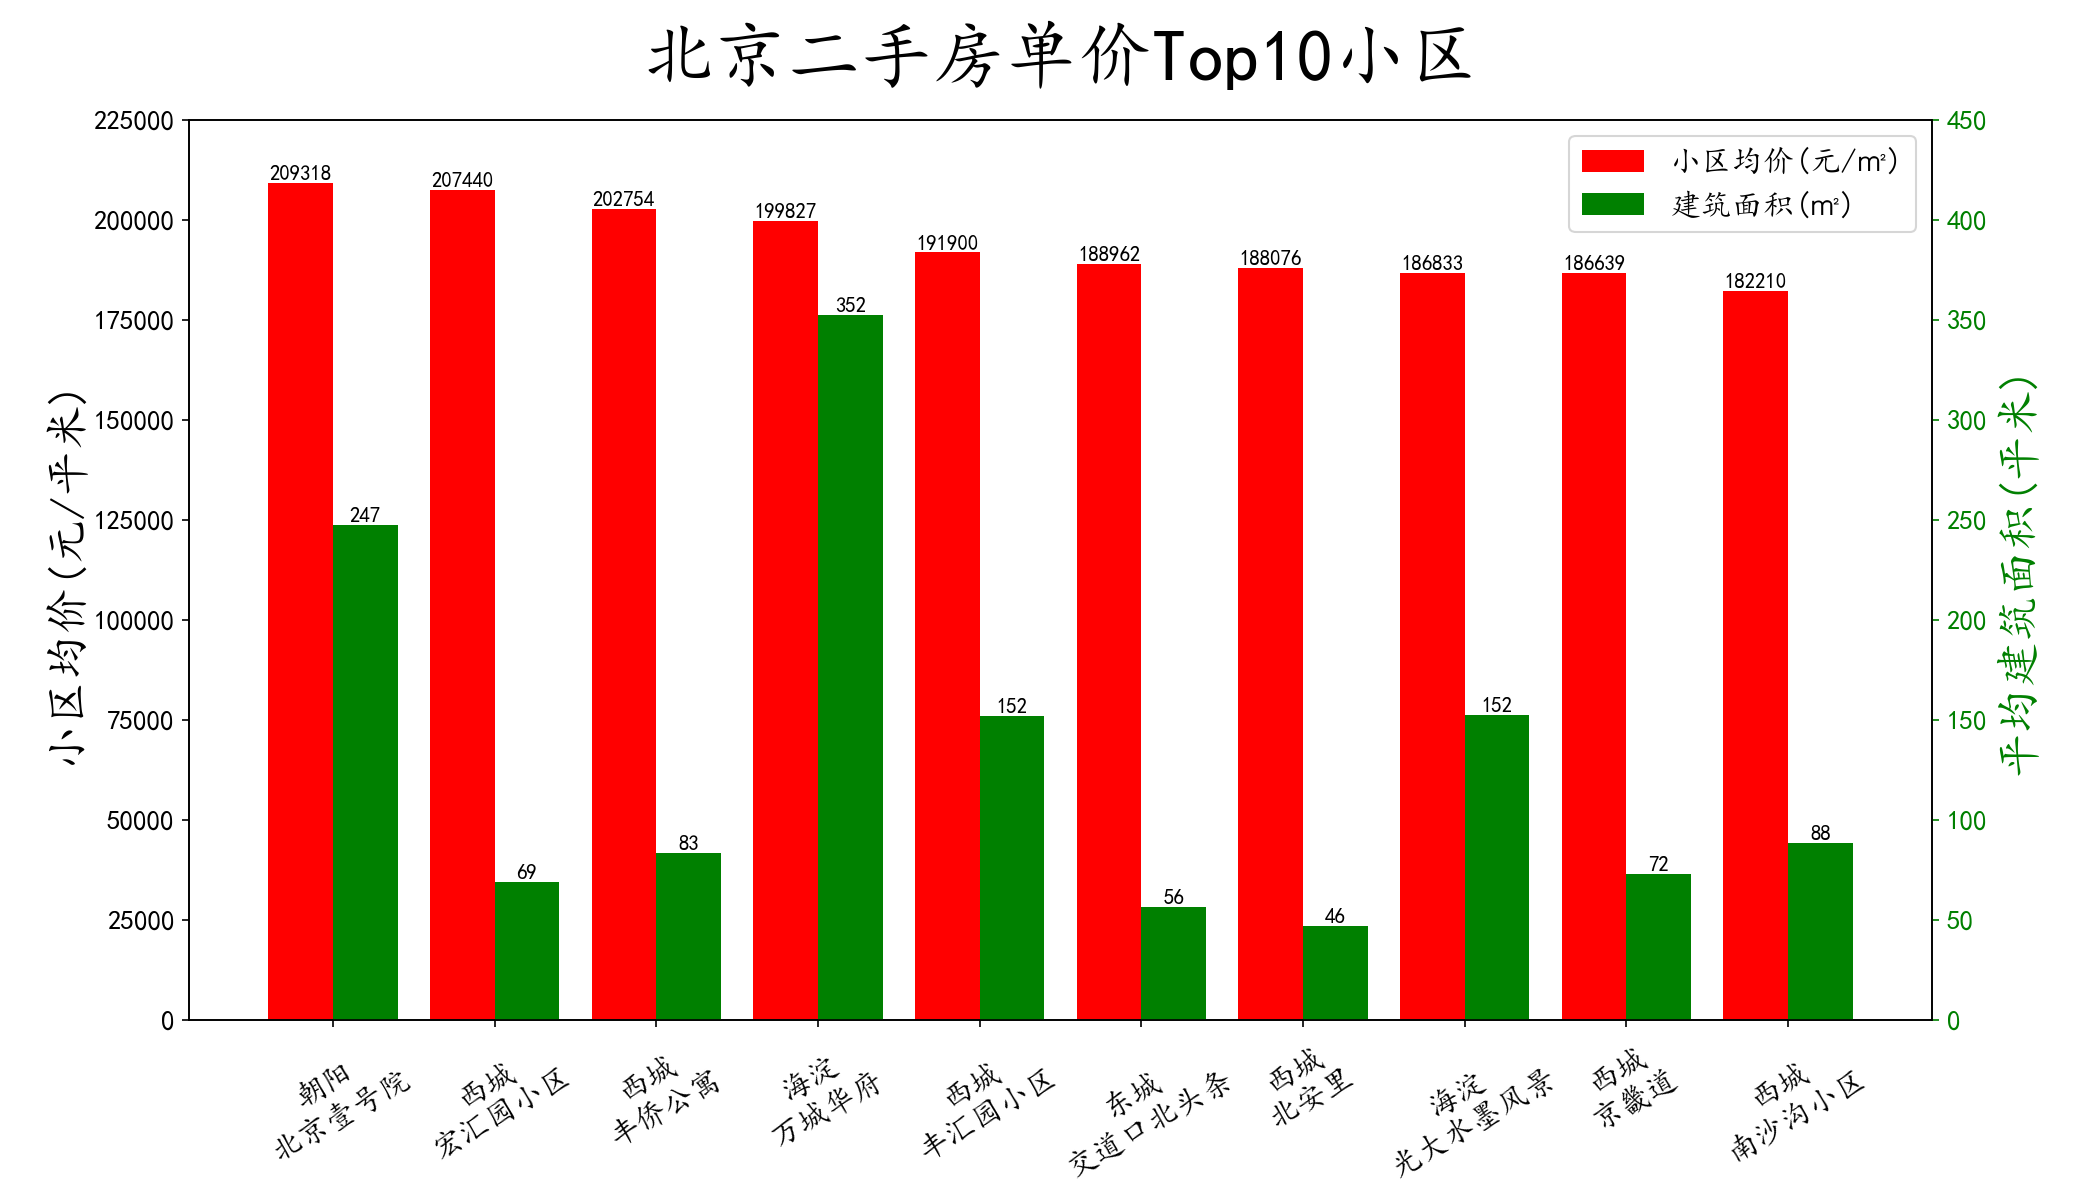
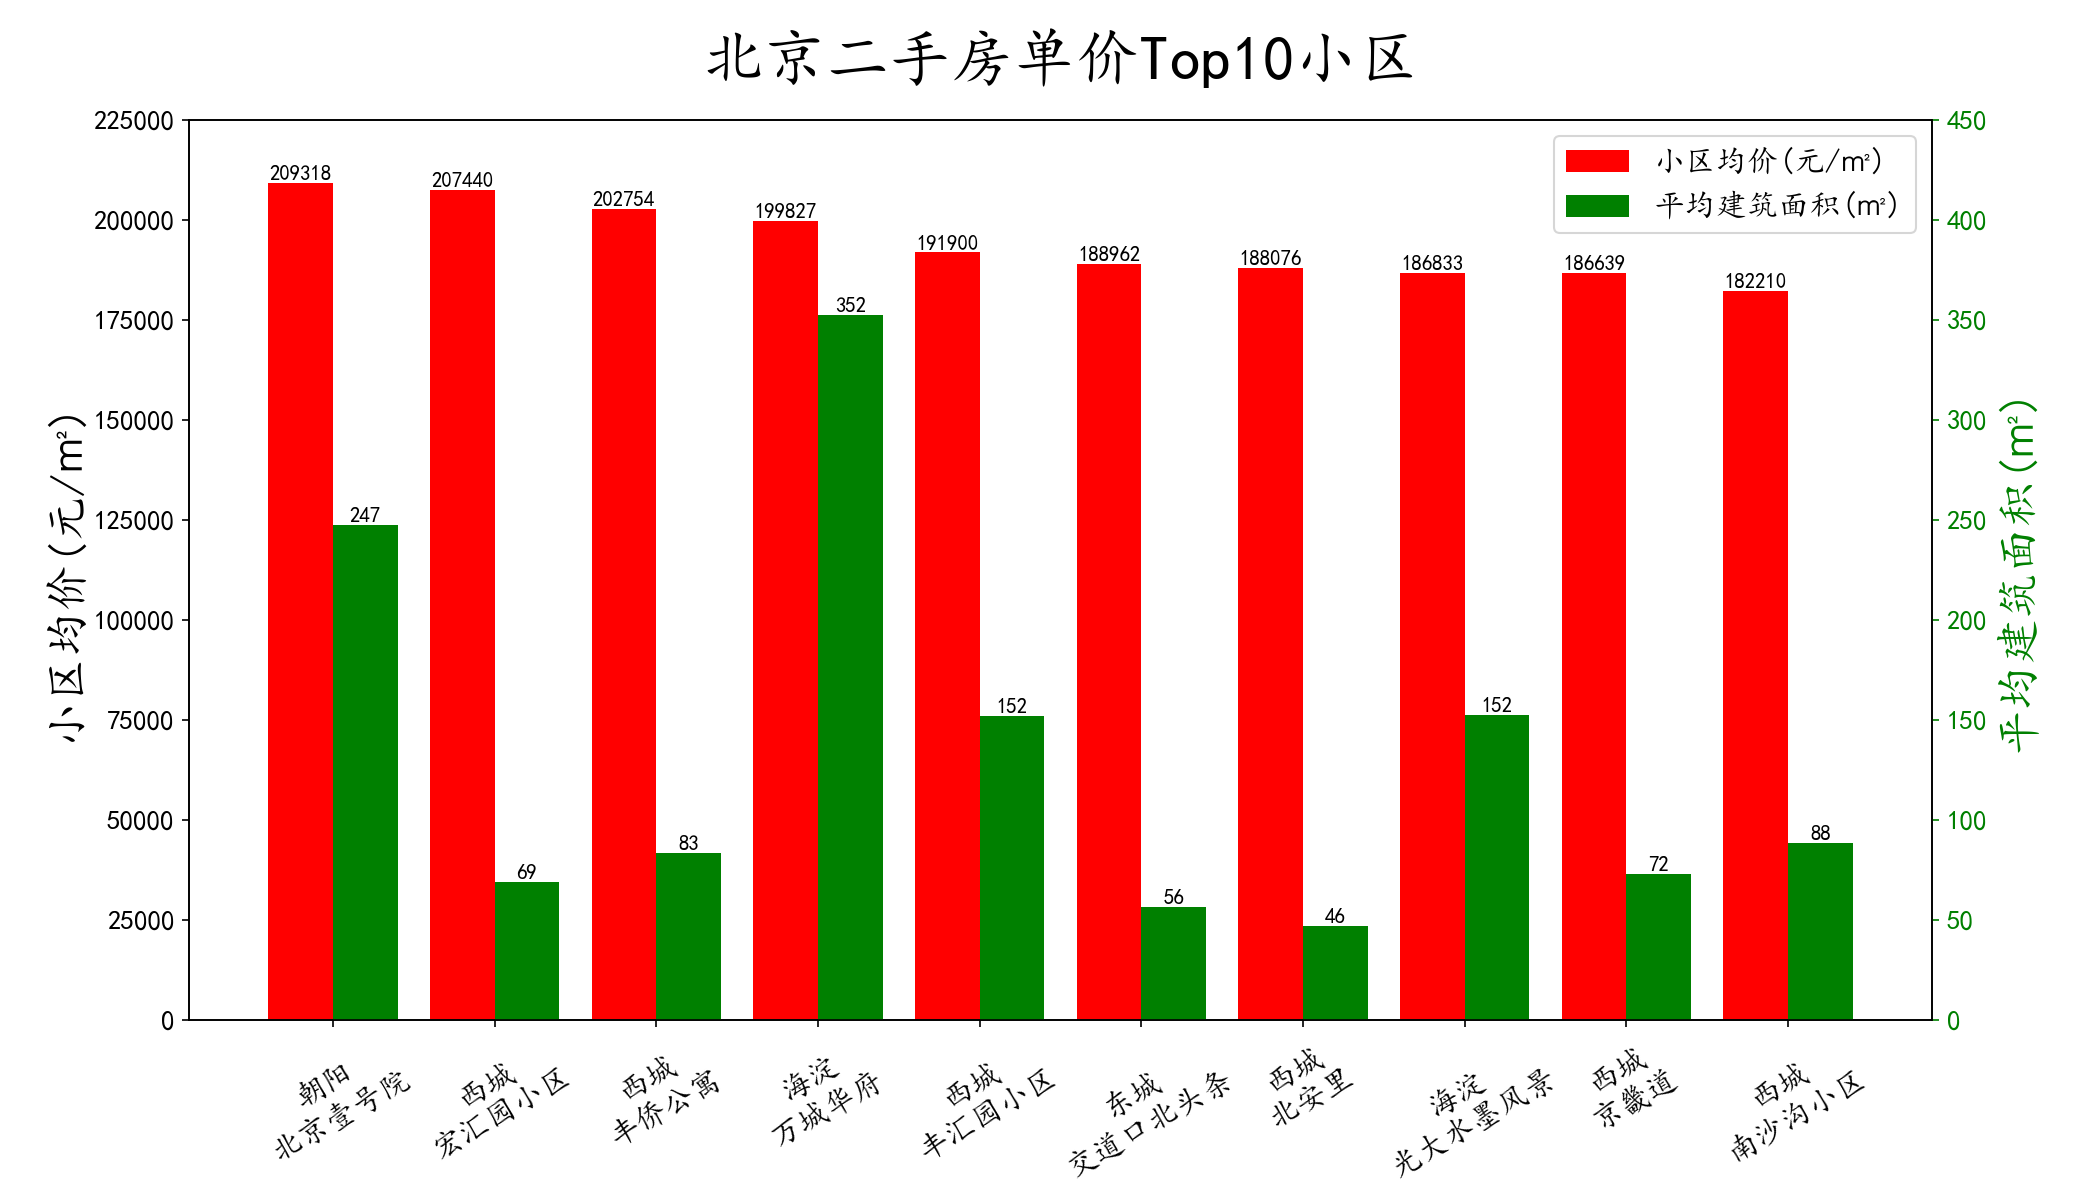
finish part 3.1

diff --git a/analysis/ershoufang.py b/analysis/ershoufang.py
@@ -1,27 +1,21 @@
 # 每个图包括: 1)数据分组、数据运算和聚合; 2)绘图（bar/parallel_bar/box/pie/scatter）
 import cv2
 import jieba
+import matplotlib.pyplot as plt
 import numpy as np
 import pandas as pd
-import matplotlib.pyplot as plt
 from wordcloud import WordCloud, STOPWORDS
+
+from analysis.config import text_fields, cut_fields, colors, district_order, district_order_, \
+    mask_image, wordcloud_image, price_by_district_distrib_image, unitprice_topk_communities_image, \
+    stats_by_district_image, price_area_distrib_image, basic_info_distrib_image
 from general_config import proc_file, city_abbr, na_values
-from analysis.config import text_fields, cut_fields, mask_image, wordcloud_image, price_by_district_image, \
-    price_by_district_box_image, unitprice_topk_communities_image
-import random
 
 task = "ershoufang"
 max_total_houses = 100000
 # 正常显示中文标签、负号
 plt.rcParams["font.sans-serif"] = ['KaiTi', 'SimHei', 'FangSong']  # 汉字字体,优先使用楷体，如果找不到楷体，则使用黑体
 plt.rcParams["axes.unicode_minus"] = False
-colorArr = ['1', '2', '3', '4', '5', '6', '7', '8', '9', 'A', 'B', 'C', 'D', 'E', 'F']
-rotations = [30, 45, 60]
-bar_width = 0.4
-
-# Return random color value for scatter plot
-def rand_color():
-    return "#" + "".join([random.choice(colorArr) for i in range(6)])
 
 
 # 北京二手房词云 (wordcloud)
@@ -46,149 +40,143 @@ def paint_wordcloud(df):
         )
         # 产生词云
         wordcloud = wordcloud.generate(ershoufang_text)
-        wordcloud.to_file(wordcloud_image.format("wordcloud", bg_color))
-        # plt.figure("二手房词云", figsize=(30, 20), dpi=120)  # 指定所绘图名称
+        wordcloud.to_file(wordcloud_image.format(bg_color))
+        # plt.figure("二手房词云", figsize=(15, 15), dpi=150)  # 指定所绘图名称
         # plt.imshow(wordcloud)  # 以图片的形式显示词云
         # plt.axis("off")  # 关闭图像坐标系
         # plt.show()
 
 
-# 房源基本信息分布 (pie, subplots=2x3)
-def paint_basic_info_distrib(df, k=8):
-    # 房屋用途分布
-    count_fwyt = df["房屋用途"].value_counts()[:k]
-    count_other_fwyt = pd.Series({"其他": df["房屋用途"].value_counts()[k:].count()})
-    count_fwyt = count_fwyt.append(count_other_fwyt)
-    count_fwyt.index.name = ""
-    count_fwyt.name = ""
-    fig = plt.figure(figsize=(20, 20), dpi=150)
-    ax = fig.add_subplot(231)
-    ax.set_title("房屋用途分布", fontsize=18)
-    count_fwyt.plot(kind="pie", cmap=plt.cm.rainbow, autopct="%3.1f%%", fontsize=12)
-    # 房屋户型分布
-    count_fwhx = df["房屋户型"].value_counts()[:k]
-    count_other_fwhx = pd.Series({"其他": df["房屋户型"].value_counts()[k:].count()})
-    count_fwhx = count_fwhx.append(count_other_fwhx)
-    count_fwhx.index.name = ""
-    count_fwhx.name = ""
-    ax = fig.add_subplot(232)
-    ax.set_title("房屋户型分布", fontsize=18)
-    count_fwhx.plot(kind="pie", cmap=plt.cm.rainbow, autopct="%3.1f%%", fontsize=12)
-    # 装修情况分布
-    count_zxqk = df["装修情况"].value_counts()
-    count_zxqk.name = ""
-    ax = fig.add_subplot(233)
-    ax.set_title("装修情况分布", fontsize=18)
-    count_zxqk.plot(kind="pie", cmap=plt.cm.rainbow, autopct="%3.1f%%", fontsize=12)
-    # 建筑类型分布
-    count_jzlx = df["建筑类型"].value_counts()
-    count_jzlx.name = ""
-    ax = fig.add_subplot(234)
-    ax.set_title("建筑类型分布", fontsize=18)
-    count_jzlx.plot(kind="pie", cmap=plt.cm.rainbow, autopct="%3.1f%%", fontsize=12)
-    # 房屋朝向分布
-    count_fwcx = df["房屋朝向"].value_counts()[:k]
-    count_other_fwcx = pd.Series({"其他": df["房屋朝向"].value_counts()[k:].count()})
-    count_fwcx = count_fwcx.append(count_other_fwcx)
-    ax = fig.add_subplot(235)
-    ax.set_title("房源朝向分布", fontsize=18)
-    count_fwcx.plot(kind="pie", cmap=plt.cm.rainbow, autopct="%3.1f%%", fontsize=12)
-    # 建筑面积分布(区间)
-    area_level = [0, 50, 100, 150, 200, 250, 300, 500, 100000]
-    label_level = ["小于50", "50-100", "100-150", "150-200", "200-300", "300-500", "大于500"]
-    jzmj_cut = pd.cut(df["建筑面积(㎡)"], area_level, labels=label_level)
-    jzmj_result = jzmj_cut.value_counts()
-    ax = fig.add_subplot(236)
-    ax.set_ylabel("建筑面积(㎡)", fontsize=14)
-    ax.set_title("建筑面积分布区间", fontsize=18)
-    jzmj_result.plot(kind="pie", cmap=plt.cm.rainbow, autopct="%3.1f%%", fontsize=12)
+# 房源基本信息分布 (pie, subplots=3x3)
+def paint_basic_info_distrib(df):
+    cols = ["房屋用途", "房屋户型", "装修情况", "配备电梯", "近地铁", "区域", "所在楼层", "楼层总数(层)", "建筑面积(㎡)"]
+    k_list = [4] + [6] * 4 + [14, 6, None, None]
+    level_list = [None] * 7 + [[0, 5, 10, 15, 20, 30, 50], [0, 50, 100, 150, 200, 300, 500, np.inf]]
+    r, c = 5, 2
+    # assert r * c == len(cols), "Error: cols length & matrix size not match"
+    fig = plt.figure(figsize=(14, 35), dpi=150)
+    for i, (col, k, levels) in enumerate(zip(cols, k_list, level_list)):
+        title, unit = col.split("(")[0] + "分布", col.split("(")[-1].replace(")", "")
+        raw_value_counts = df[col].value_counts()
+        if i < 7:
+            # 集中分布（主要是文本和布尔值, 前7个）
+            pie_value_counts = raw_value_counts[:k]
+            if len(raw_value_counts) > k:
+                pie_value_counts["其他"] = raw_value_counts[k:].sum()
+        else:
+            # 高离散分布（数值, 后2个）
+            labels = [f"{l}{unit}以上" if r == np.inf else f"{l}-{r}{unit}" for l, r in zip(levels[:-1], levels[1:])]
+            pie_value_counts = pd.cut(df[col], levels, labels=labels).value_counts()
+        ax = fig.add_subplot(r * 100 + c * 10 + i + 1)
+        ax.set_title(title, y=0.96, fontsize=25)
+        pie_value_counts.name = ""
+        # print(col, '\n', pie_value_counts)
+        pie_value_counts.plot(kind="pie", colormap="rainbow", autopct="%3.1f%%", fontsize=12)
+    plt.subplots_adjust(left=0, bottom=0, right=0.99, top=0.99, wspace=0.05, hspace=0.05)  # 调整页面边距、子图间距
+    fig.savefig(basic_info_distrib_image)
     plt.show()
 
 
-# 各区域的房价、房源数量、平均建筑面积对比 (parallel_bar, par=3)
-def paint_stats_by_district(df):
-    """北京各区域二手房平均单价"""
-    mean_unitprice_by_district = df["单价(元/㎡)"].groupby(df["区域"]).mean()
-    mean_unitprice_by_district.index.name = ""
-    fig = plt.figure(figsize=(12, 7))
-    ax = fig.add_subplot(111)
-    ax.set_ylabel("单价(元/平米)", fontsize=14)
-    ax.set_title("北京各区域二手房平均单价", fontsize=18)
-    mean_unitprice_by_district.plot(kind="bar", fontsize=12)
-    # plt.savefig("data_ana\\picture\\mean_price.jpg")
-    plt.show()
-    """北京各区域二手房房源数量"""
-    count_houses_by_district = df["houseCode"].groupby(df["区域"]).count()
-    count_houses_by_district.index.name = ""
-    fig = plt.figure(figsize=(12, 7))
-    ax = fig.add_subplot(111)
-    ax.set_ylabel("房源数量(套)", fontsize=14)
-    ax.set_title("北京各区域二手房房源数量", fontsize=18)
-    count_houses_by_district.plot(kind="bar", fontsize=12, grid=True)
-    plt.show()
-    """北京各区域二手房平均建筑面积"""
-    mean_area_by_district = df["建筑面积(㎡)"].groupby(df["区域"]).mean()
-    mean_area_by_district.index.name = ""
-    fig = plt.figure(figsize=(12, 7))
-    ax = fig.add_subplot(111)
-    ax.set_ylabel("建筑面积(㎡)", fontsize=14)
-    ax.set_title("北京各区域二手房平均建筑面积", fontsize=18)
-    mean_area_by_district.plot(kind="bar", fontsize=12)
+# 各区域的房源数量、平均单价、平均建筑面积对比 (parallel_bar, par=3)
+def paint_stats_by_district(df, bar_width=0.3):
+    # 房源数量
+    stats_by_district = df[["单价(元/㎡)", "建筑面积(㎡)"]].groupby(df["区域"]).mean().sort_values("单价(元/㎡)", ascending=False)
+    stats_by_district["房源总数"] = df["houseCode"].groupby(df["区域"]).count()
+    # 主要参数
+    xtick_labels = district_order_
+    x, bars = np.arange(len(xtick_labels)), []  # 柱状图在横坐标上的位置
+    y0_label, y1_label, y2_label = "区域房源总数(套)", "平均单价(元/㎡)", "平均建筑面积(㎡)"
+    scale = 5
+    # 绘图
+    fig = plt.figure(figsize=(20, 10), dpi=150)
+    ax1 = fig.add_subplot(111)
+    ax1.set_title("北京各区域二手房对比", y=1.03, fontsize=30)
+    bars.append(ax1.bar(x - bar_width, stats_by_district["房源总数"] * scale, bar_width, color='b', label=y0_label))
+    bars.append(ax1.bar(x, stats_by_district["单价(元/㎡)"], bar_width, color='r', label=y1_label))
+    ax1.set_ylabel(y1_label, fontsize=22)
+    ax1.set_yticks(np.arange(5 + 1) * 25000)
+    # 显示x轴标签,即tick_label, 并调整位置使其落在两个直方图正中间
+    ax1.set_xticks(x)
+    ax1.set_xticklabels(xtick_labels, fontsize=15)
+    # 第一Y轴标签、刻度颜色设置
+    y1_color = bars[1][0].get_facecolor()
+    ax1.yaxis.label.set_color(y1_color)
+    ax1.tick_params(axis='y', colors=y1_color, labelsize=13)
+    # 双Y轴设置
+    ax2 = ax1.twinx()
+    bars.append(ax2.bar(x + bar_width, stats_by_district["建筑面积(㎡)"], bar_width, color='g', label=y2_label))
+    ax2.set_ylabel(y2_label, fontsize=22)
+    ax2.set_yticks(np.arange(10 + 1) * 25)
+    # 第二Y轴标签、刻度颜色设置
+    y2_color = bars[-1][0].get_facecolor()
+    ax2.yaxis.label.set_color(y2_color)
+    ax2.tick_params(axis='y', colors=y2_color, labelsize=13)
+    # 加数据标签
+    for ax, bar, s in zip([ax1, ax1, ax2], bars, [scale, 1, 1]):
+        for b in bar:
+            ax.text(b.get_x() + bar_width / 2, b.get_height(), str(int(b.get_height() / s)), ha="center", va="bottom")
+    plt.legend(handles=bars, fontsize=15)  # 显示图例，即label
+    plt.subplots_adjust(left=0.09, bottom=0.15, right=0.92, top=0.90)  # 调整页面边距、子图间距
+    # plt.grid("on")
+    fig.savefig(stats_by_district_image)
     plt.show()
 
 
-# 北京二手房单价与建筑面积区位分布 (scatter)
+# 北京二手房单价与建筑面积区位分布 (scatter, cate=17)
 def paint_price_area_distrib(df):
-    fig = plt.figure(figsize=(12, 7))
+    fig = plt.figure(figsize=(25, 15), dpi=150)
     ax = fig.add_subplot(111)
-    ax.set_title("北京二手房单价与建筑面积散点图", fontsize=18)
-    # colors = ["red", "green", "blue", "yellow", "purple", "black", "pink", "orange", "cyan", ]
-    # colors = [rand_color() for key in df["区域"].value_counts()]
-    for k, d in df.groupby("区域"):
-        d.plot.scatter(x="建筑面积(㎡)", y="单价(元/㎡)", c=rand_color(), label=k, colormap="gist_rainbow", grid=True,
-                       fontsize=12,
-                       ax=ax, alpha=0.4, xticks=[0, 50, 100, 150, 200, 250, 300, 400, 500, 750], xlim=[0, 1000],
-                       ylim=[0, 200000])
-    ax.set_xlabel("建筑面积(平米)", fontsize=14)
-    ax.set_ylabel("单价(元/平米)", fontsize=14)
+    ax.set_title("北京二手房单价与建筑面积散点图", y=1.02, fontsize=35)
+    district_groups = dict(list(df[df["房屋用途"].apply(lambda x: x not in ["商业办公类", "车库"])].groupby("区域")))
+    for d, c in zip(district_order, colors):
+        district_groups[d].plot.scatter(x="建筑面积(㎡)", y="单价(元/㎡)", s=8, c=c, label=d, grid=True, fontsize=12,
+                                        ax=ax, xticks=[0, 50, 100, 150, 200, 250, 300, 400, 500],
+                                        xlim=[0, 500], ylim=[0, 180000])
+    ax.set_xlabel("建筑面积(㎡)", fontsize=27)
+    ax.set_ylabel("单价(元/㎡)", fontsize=27)
+    ax.tick_params(axis='x', labelsize=20)
+    ax.tick_params(axis='y', labelsize=20)
+    plt.legend(markerscale=8, fontsize=24)
+    plt.subplots_adjust(left=0.06, bottom=0.05, right=0.98, top=0.93)  # 调整页面边距、子图间距
+    fig.savefig(price_area_distrib_image)
     plt.show()
 
 
 # 北京二手房均价最高小区TopK (parallel_bar, par=2)
-def paint_unitprice_topk_communities(df, k=10):
+def paint_unitprice_topk_communities(df, k=10, bar_width=0.4, rotation=30):
     unitprice_top_communities = df.groupby(["区域", "小区"]).mean().sort_values(["小区均价(元/㎡)"], ascending=False)[
                                     ["小区均价(元/㎡)", "建筑面积(㎡)"]][:k]
-    unitprice_top_communities.index.name = ""
-    x = np.arange(k)  # 柱状图在横坐标上的位置
+    # 主要参数
     xtick_labels = ["\n".join(indices) for indices in unitprice_top_communities.index]
+    x, bars = np.arange(len(xtick_labels)), []  # 柱状图在横坐标上的位置
+    y1_label, y2_label = "小区均价(元/㎡)", "平均建筑面积(㎡)"
     # 绘图
     fig = plt.figure(figsize=(14, 8), dpi=150)
     ax1 = fig.add_subplot(111)
     ax1.set_title(f"北京二手房单价Top{k}小区", y=1.03, fontsize=30)
-    bar1 = ax1.bar(x - bar_width / 2, unitprice_top_communities["小区均价(元/㎡)"], bar_width, color='r',
-                   label="小区均价(元/㎡)")
-    ax1.set_ylabel("小区均价(元/平米)", fontsize=22)
+    bars.append(
+        ax1.bar(x - bar_width / 2, unitprice_top_communities["小区均价(元/㎡)"], bar_width, color='r', label=y1_label))
+    ax1.set_ylabel(y1_label, fontsize=22)
     ax1.set_yticks(np.arange(9 + 1) * 25000)
     # 显示x轴标签,即tick_label, 并调整位置使其落在两个直方图正中间
     ax1.set_xticks(x)
-    ax1.set_xticklabels(xtick_labels, rotation=rotations[0], fontsize=15)
+    ax1.set_xticklabels(xtick_labels, rotation=rotation, fontsize=15)
     # 第一Y轴标签、刻度颜色设置
     # ax1.yaxis.label.set_color(bar1[0].get_facecolor())
     ax1.tick_params(axis='y', labelsize=13)
     # 双Y轴设置
     ax2 = ax1.twinx()
-    bar2 = ax2.bar(x + bar_width / 2, unitprice_top_communities["建筑面积(㎡)"], bar_width, color='g', label='建筑面积(㎡)')
-    ax2.set_ylabel("平均建筑面积(平米)", fontsize=22)
+    bars.append(ax2.bar(x + bar_width / 2, unitprice_top_communities["建筑面积(㎡)"], bar_width, color='g', label=y2_label))
+    ax2.set_ylabel(y2_label, fontsize=22)
     ax2.set_yticks(np.arange(9 + 1) * 50)
     # 第二Y轴标签、刻度颜色设置
-    ax2.yaxis.label.set_color(bar2[0].get_facecolor())
-    ax2.tick_params(axis='y', colors=bar2[0].get_facecolor(), labelsize=13)
+    ax2.yaxis.label.set_color(bars[1][0].get_facecolor())
+    ax2.tick_params(axis='y', colors=bars[1][0].get_facecolor(), labelsize=13)
     # 加数据标签
-    for b in bar1:
-        ax1.text(b.get_x()+bar_width/2, b.get_height(), str(int(b.get_height())), ha="center", va="bottom")
-    for b in bar2:
-        ax2.text(b.get_x()+bar_width/2, b.get_height(), str(int(b.get_height())), ha="center", va="bottom")
-    plt.legend(handles=[bar1, bar2], fontsize=15)  # 显示图例，即label
+    for ax, bar in zip([ax1, ax2], bars):
+        for b in bar:
+            ax.text(b.get_x() + bar_width / 2, b.get_height(), str(int(b.get_height())), ha="center", va="bottom")
+    plt.legend(handles=bars, fontsize=15)  # 显示图例，即label
     plt.subplots_adjust(left=0.09, bottom=0.15, right=0.92, top=0.90)  # 调整页面边距、子图间距
     # plt.grid("on")
     fig.savefig(unitprice_topk_communities_image.format(k))
@@ -196,7 +184,7 @@ def paint_unitprice_topk_communities(df, k=10):
 
 
 # 北京各区域二手房价格箱线图 (box, subplots=2x1)
-def paint_price_by_district_box(df):
+def paint_price_by_district_distrib(df, rotation=60):
     # 二手房单价箱线图
     unitprice_groups_by_district = dict(sorted(list(df["单价(元/㎡)"].groupby(df["区域"])),
                                                key=lambda x: x[1].mean(), reverse=True))
@@ -204,13 +192,14 @@ def paint_price_by_district_box(df):
     for name, group in unitprice_groups_by_district.items():
         box_data[name] = group
     del box_data["tmp"]
+    # 绘图
     fig = plt.figure(figsize=(20, 20), dpi=150)
     ax = fig.add_subplot(211)
     ax.set_title("北京各区域二手房单价箱线图", y=1.05, fontsize=45)
-    ax.set_ylabel("单价(元/平米)", fontsize=22)
+    ax.set_ylabel("单价(元/㎡)", fontsize=22)
     box_data.plot(kind="box", fontsize=20, sym="r+", grid=True, ax=ax,
                   yticks=[10000, 20000, 30000, 40000, 50000, 100000, 150000, 180000], ylim=[0, 180000])
-    ax.set_xticklabels(ax.get_xticklabels(), rotation=rotations[-1])
+    ax.set_xticklabels(ax.get_xticklabels(), rotation=rotation)
     # 二手房总价箱线图
     totalprice_groups_by_district = dict(list(df["总价(万元)"].groupby(df["区域"])))
     box_data = pd.DataFrame(list(range(max_total_houses)), columns=["tmp"])
@@ -222,9 +211,9 @@ def paint_price_by_district_box(df):
     ax.set_ylabel("总价(万元)", fontsize=22)
     box_data.plot(kind="box", fontsize=20, sym="r+", grid=True, ax=ax, yticks=[0, 500, 1000, 2000, 3000, 5000, 6000],
                   ylim=[0, 6000])
-    ax.set_xticklabels(ax.get_xticklabels(), rotation=rotations[-1])
+    ax.set_xticklabels(ax.get_xticklabels(), rotation=rotation)
     plt.subplots_adjust(left=0.08, bottom=0.07, right=0.97, top=0.93, hspace=0.42)  # 调整页面边距、子图间距
-    fig.savefig(price_by_district_box_image)
+    fig.savefig(price_by_district_distrib_image)
     plt.show()
 
 
@@ -233,10 +222,9 @@ if __name__ == "__main__":
     filename = proc_file.format(city_abbr, task)
     df = pd.read_csv(filename, na_values=na_values)
     # print(df.info())
-    # paint_wordcloud(df)
-    # paint_basic_info_distrib(df)
-    # paint_stats_by_district(df)
-    # paint_price_area_distribution(df)
-    # paint_unitprice_topk_communities(df)  # √
-    # paint_price_by_district_box(df)  # √
-
+    paint_wordcloud(df)  # √
+    paint_basic_info_distrib(df)  # √
+    paint_stats_by_district(df)  # √
+    paint_price_area_distrib(df)  # √
+    paint_unitprice_topk_communities(df)  # √
+    paint_price_by_district_distrib(df)  # √
